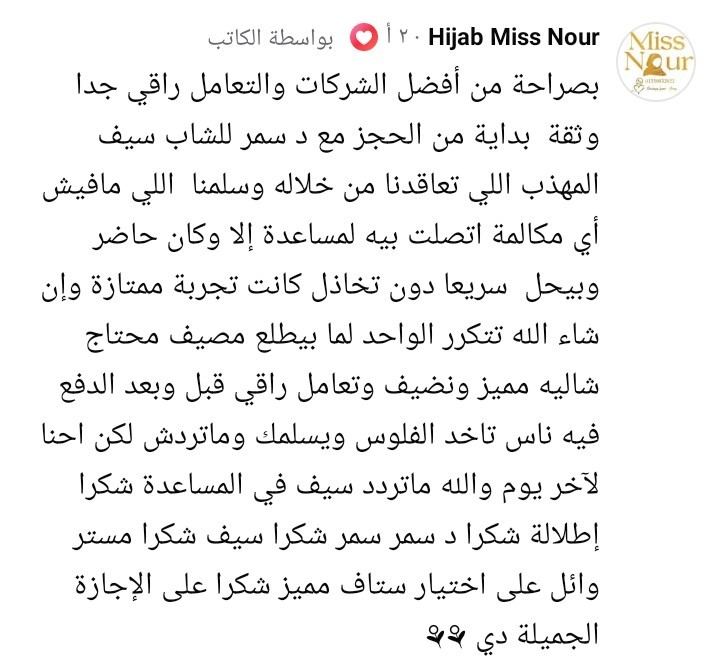
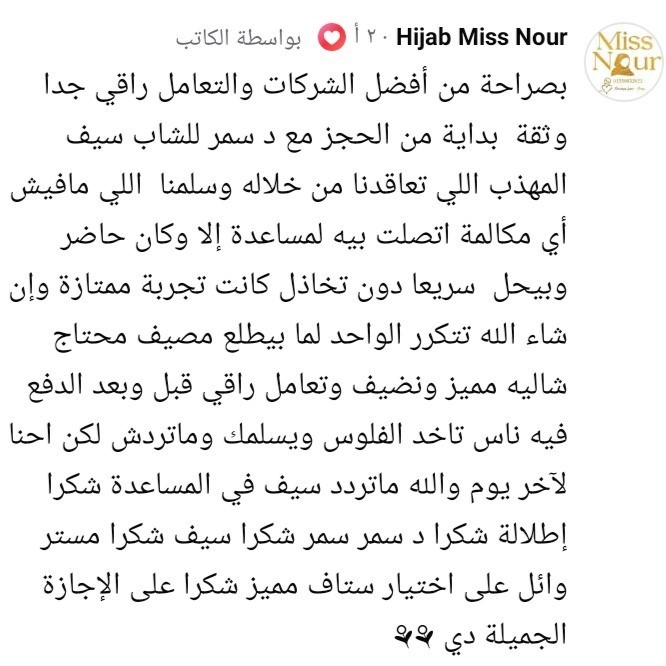
add testimonials img

diff --git a/src/constants/testimonials.js b/src/constants/testimonials.js
@@ -1,4 +1,5 @@
 import testimonialsImg1 from "../assets/images/testimonials/msgs/1.jpeg";
+import testimonialsImg2 from "../assets/images/testimonials/msgs/2.jpeg";
 import userImg1 from "../assets/images/testimonials/users/Ammar2.jpg";
 
 import supportIcon from "../assets/images/testimonials/adv/headphone.png";
@@ -14,7 +15,7 @@ const testimonialsList = [
     userImg: userImg1,
   },
   {
-    img: testimonialsImg1,
+    img: testimonialsImg2,
     name: "عمار عبده",
     city: "البحيرة",
     userImg: userImg1,
@@ -26,7 +27,7 @@ const testimonialsList = [
     userImg: userImg1,
   },
   {
-    img: testimonialsImg1,
+    img: testimonialsImg2,
     name: "عمار عبده",
     city: "البحيرة",
     userImg: userImg1,
@@ -38,7 +39,7 @@ const testimonialsList = [
     userImg: userImg1,
   },
   {
-    img: testimonialsImg1,
+    img: testimonialsImg2,
     name: "عمار عبده",
     city: "البحيرة",
     userImg: userImg1,
@@ -50,7 +51,7 @@ const testimonialsList = [
     userImg: userImg1,
   },
   {
-    img: testimonialsImg1,
+    img: testimonialsImg2,
     name: "عمار عبده",
     city: "البحيرة",
     userImg: userImg1,
@@ -62,7 +63,7 @@ const testimonialsList = [
     userImg: userImg1,
   },
   {
-    img: testimonialsImg1,
+    img: testimonialsImg2,
     name: "عمار عبده",
     city: "البحيرة",
     userImg: userImg1,
@@ -74,7 +75,7 @@ const testimonialsList = [
     userImg: userImg1,
   },
   {
-    img: testimonialsImg1,
+    img: testimonialsImg2,
     name: "عمار عبده",
     city: "البحيرة",
     userImg: userImg1,
